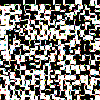
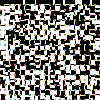
Updated canada.pymy1.png .

diff --git a/canada.py b/canada.py
@@ -28,8 +28,8 @@ outp=np.asarray(outp)
 img = Image.fromarray(outp, 'RGB')
 img.save('my.png')
 moverPieza(outp,18,1,0,0)
-moverPieza(outp,0,16,0,1)
-moverPieza(outp,1,4,0,2)
+moverPieza(outp,0,16,0,2)
+moverPieza(outp,1,4,0,1)
 moverPieza(outp,1,9,0,3)
 moverPieza(outp,2,8,0,4)
 moverPieza(outp,3,0,0,5)
